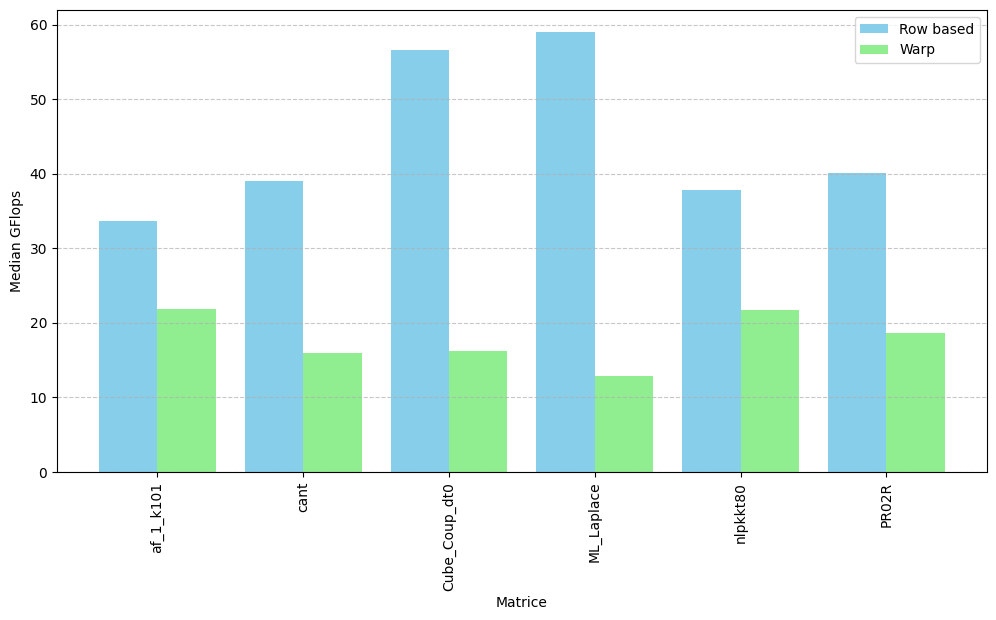
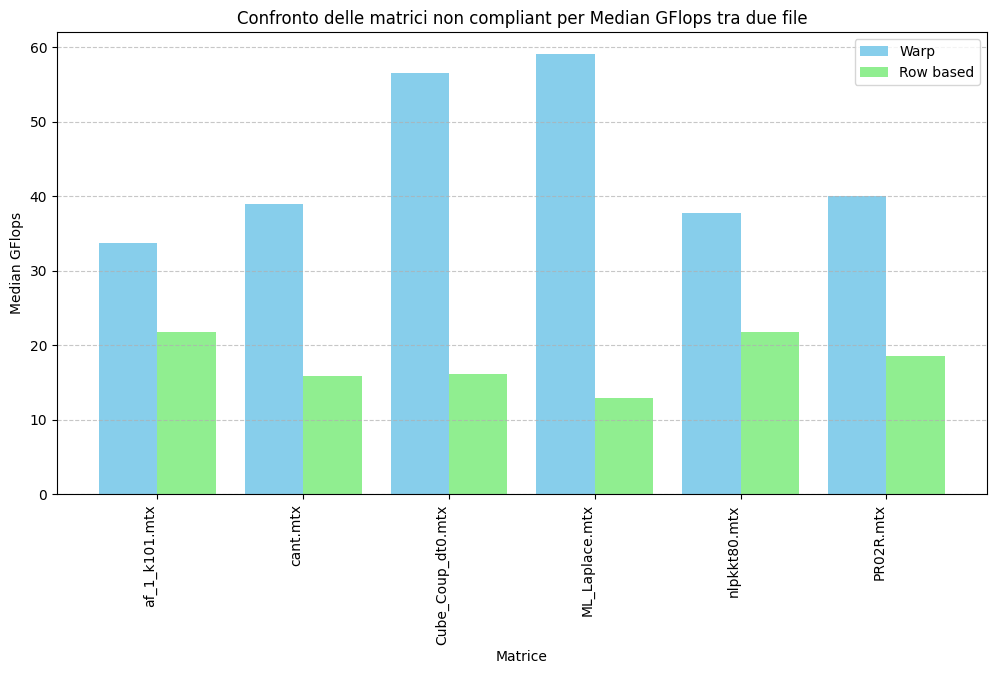
grafici rivisitati XDXD

diff --git a/results/graph_builder_CSR_compare.py b/results/graph_builder_CSR_compare.py
@@ -2,7 +2,7 @@ import pandas as pd
 import matplotlib.pyplot as plt
 import os
 
-def compare_matrices(file_path1, file_path2, output_path):
+def compare_matrices_non_compliant(file_path1, file_path2, output_path):
     # Carica il primo file CSV
     df1 = pd.read_csv(file_path1)
 
@@ -10,14 +10,11 @@ def compare_matrices(file_path1, file_path2, output_path):
     df1['avg_nnz_per_row'] = df1['NZ'] / df1['M']
     df1['density'] = df1['NZ'] / (df1['M'] * df1['N'])
 
-    # Filtra le matrici secondo la condizione specificata e fai una copia esplicita
-    df1_filtered = df1[(df1['avg_nnz_per_row'] < 25) | (df1['density'] > 1.5e-3)].copy()
-
-    # Rimuove il ".mtx" dai nomi delle matrici
-    df1_filtered.loc[:, 'Matrix'] = df1_filtered['Matrix'].str.replace('.mtx', '', regex=False)
+    # Filtra le matrici che non rispettano la condizione
+    df1_non_compliant = df1[(df1['avg_nnz_per_row'] >= 25) & (df1['density'] <= 1.5e-3)].copy()
 
     # Calcola la grandezza della matrice
-    df1_filtered.loc[:, 'Size'] = df1_filtered['NZ'] / (df1_filtered['M'] * df1_filtered['N'])
+    df1_non_compliant.loc[:, 'Size'] = df1_non_compliant['NZ'] / (df1_non_compliant['M'] * df1_non_compliant['N'])
 
     # Carica il secondo file CSV
     df2 = pd.read_csv(file_path2)
@@ -26,46 +23,50 @@ def compare_matrices(file_path1, file_path2, output_path):
     df2['avg_nnz_per_row'] = df2['NZ'] / df2['M']
     df2['density'] = df2['NZ'] / (df2['M'] * df2['N'])
 
-    # Filtra le matrici secondo la condizione specificata e fai una copia esplicita
-    df2_filtered = df2[(df2['avg_nnz_per_row'] < 25) | (df2['density'] > 1.5e-3)].copy()
-
-    # Rimuove il ".mtx" dai nomi delle matrici
-    df2_filtered.loc[:, 'Matrix'] = df2_filtered['Matrix'].str.replace('.mtx', '', regex=False)
+    # Filtra le matrici che non rispettano la condizione
+    df2_non_compliant = df2[(df2['avg_nnz_per_row'] >= 25) & (df2['density'] <= 1.5e-3)].copy()
 
     # Calcola la grandezza della matrice
-    df2_filtered.loc[:, 'Size'] = df2_filtered['NZ'] / (df2_filtered['M'] * df2_filtered['N'])
+    df2_non_compliant.loc[:, 'Size'] = df2_non_compliant['NZ'] / (df2_non_compliant['M'] * df2_non_compliant['N'])
+
+    # Ordina i dati per grandezza della matrice
+    df1_non_compliant_sorted = df1_non_compliant.sort_values(by='Size')
+    df2_non_compliant_sorted = df2_non_compliant.sort_values(by='Size')
 
     # Seleziona solo le matrici comuni tra i due file
-    common_matrices = set(df1_filtered['Matrix']).intersection(set(df2_filtered['Matrix']))
+    common_matrices = set(df1_non_compliant_sorted['Matrix']).intersection(set(df2_non_compliant_sorted['Matrix']))
 
     # Filtra entrambi i DataFrame per contenere solo le matrici comuni
-    df1_common = df1_filtered[df1_filtered['Matrix'].isin(common_matrices)].drop_duplicates(subset='Matrix')
-    df2_common = df2_filtered[df2_filtered['Matrix'].isin(common_matrices)].drop_duplicates(subset='Matrix')
+    df1_non_compliant_common = df1_non_compliant_sorted[df1_non_compliant_sorted['Matrix'].isin(common_matrices)]
+    df2_non_compliant_common = df2_non_compliant_sorted[df2_non_compliant_sorted['Matrix'].isin(common_matrices)]
 
-    # Ordina le matrici in ordine alfabetico
-    df1_common = df1_common.sort_values(by="Matrix", key=lambda x: x.str.lower())
-    df2_common = df2_common.sort_values(by="Matrix", key=lambda x: x.str.lower())
+    # Ordina per grandezza della matrice
+    df1_non_compliant_common = df1_non_compliant_common.sort_values(by='Size')
+    df2_non_compliant_common = df2_non_compliant_common.sort_values(by='Size')
+
+    df1_non_compliant_common = df1_non_compliant_common.sort_values(by="Matrix", key=lambda x: x.str.lower())
+    df2_non_compliant_common = df2_non_compliant_common.sort_values(by="Matrix", key=lambda x: x.str.lower())
 
 
     # Traccia il grafico a barre per confrontare le matrici
     plt.figure(figsize=(12, 6))
 
     # Indici per posizionare le barre
-    x = range(len(df1_common))
+    x = range(len(df1_non_compliant_common))
 
     # Crea le barre per il primo file
-    plt.bar([i - 0.2 for i in x], df1_common['MedianGFlops'], width=0.4, label='Warp', color='skyblue')
+    plt.bar([i - 0.2 for i in x], df1_non_compliant_common['MedianGFlops'], width=0.4, label='Warp', color='skyblue')
 
     # Crea le barre per il secondo file
-    plt.bar([i + 0.2 for i in x], df2_common['MedianGFlops'], width=0.4, label='Row based', color='lightgreen')
+    plt.bar([i + 0.2 for i in x], df2_non_compliant_common['MedianGFlops'], width=0.4, label='Row based', color='lightgreen')
 
     # Etichetta gli assi
     plt.xlabel("Matrice")
     plt.ylabel("Median GFlops")
-    plt.title("Confronto delle matrici per Median GFlops tra due file")
+    plt.title("Confronto delle matrici non compliant per Median GFlops tra due file")
 
     # Rotazione delle etichette sull'asse X per una migliore leggibilità
-    plt.xticks(x, df1_common['Matrix'], rotation=90, ha='right')
+    plt.xticks(x, df1_non_compliant_common['Matrix'], rotation=90, ha='right')
 
     # Aggiungi la griglia per migliorare la leggibilità
     plt.grid(True, axis='y', linestyle='--', alpha=0.7)
@@ -86,5 +87,5 @@ def compare_matrices(file_path1, file_path2, output_path):
 # Esempio di utilizzo
 file_path1 = "performance-CSR-warp.csv"
 file_path2 = "performance-CSR.csv"
-output_path = "graphs/filtered_matrices_comparison.png"
-compare_matrices(file_path1, file_path2, output_path)
+output_path = "graphs/non_compliant_matrices_comparison.png"
+compare_matrices_non_compliant(file_path1, file_path2, output_path)
